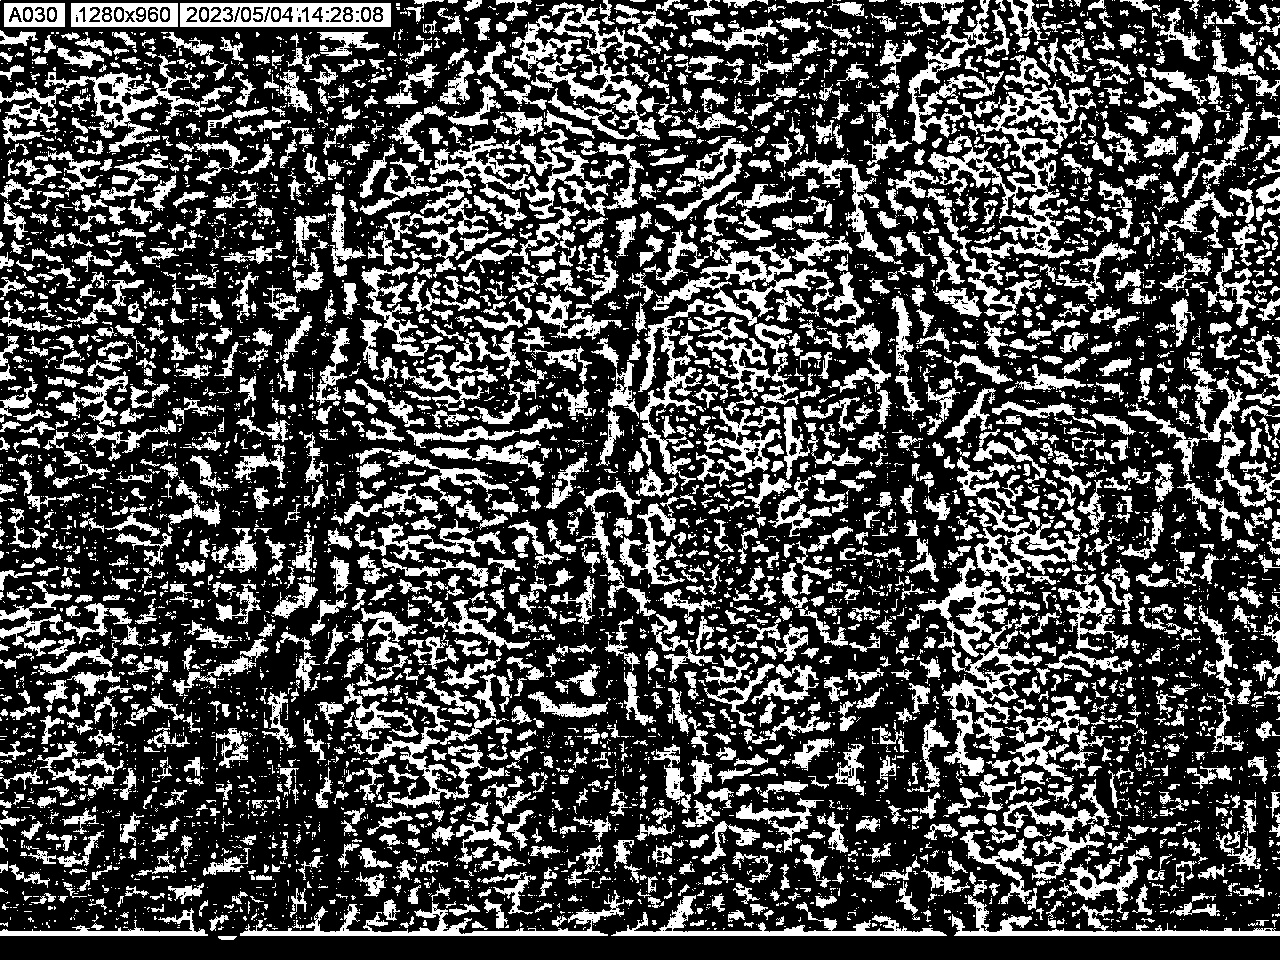
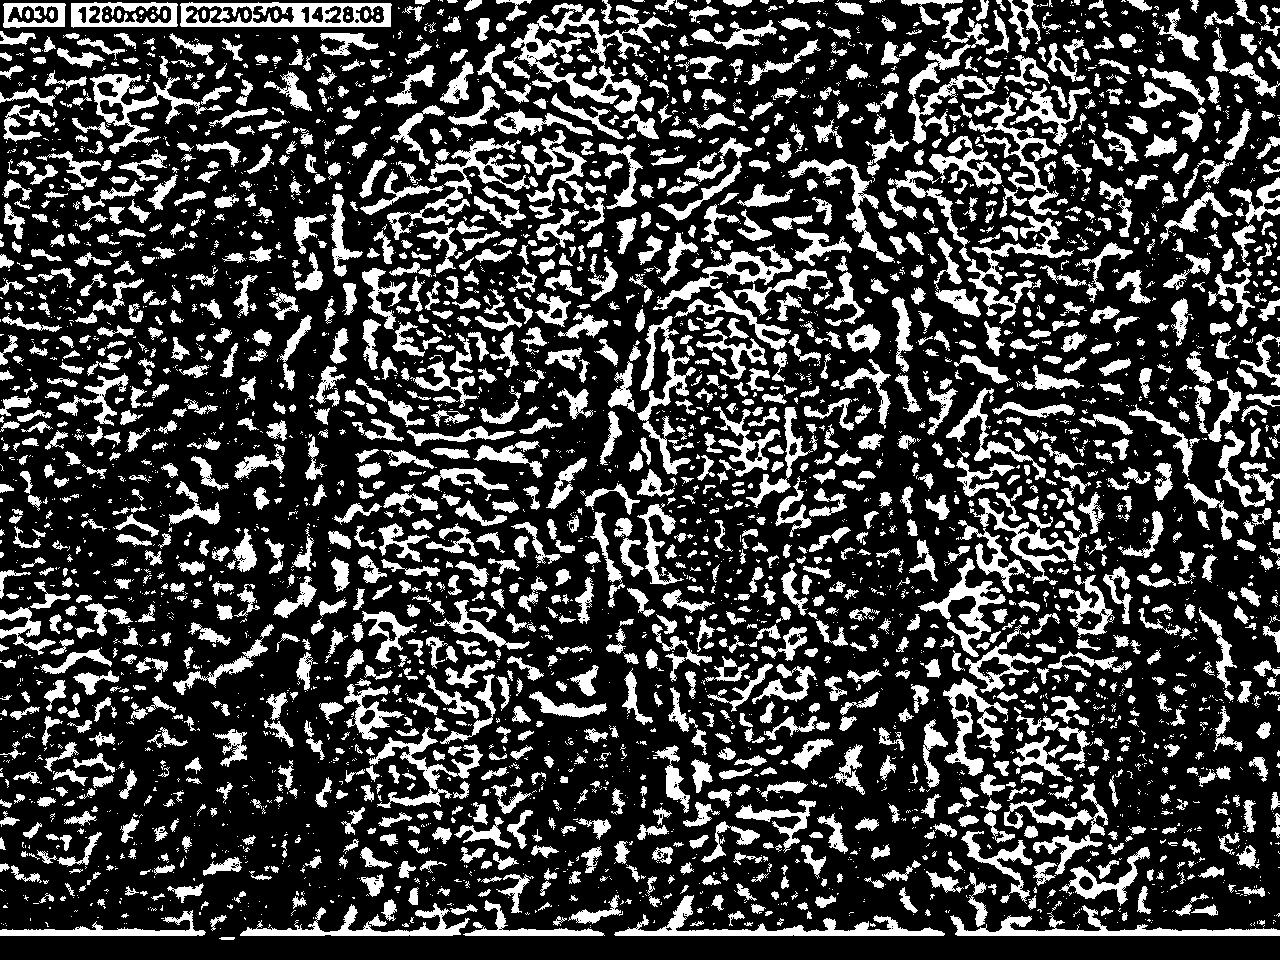
test

diff --git a/rbl/group_task02/main.py b/rbl/group_task02/main.py
@@ -39,7 +39,8 @@ def process(file_path:str):
     # process the image
     im_ori = cv.imread(file_path)
     im_gray = cv.cvtColor(im_ori, cv.COLOR_BGR2GRAY)
-    im_binary = cv.adaptiveThreshold(im_gray, 255, cv.ADAPTIVE_THRESH_MEAN_C, cv.THRESH_BINARY_INV, 11, 2)
+    im_blur = cv.GaussianBlur(im_gray, (7,7), 0)
+    im_binary = cv.adaptiveThreshold(im_blur, 255, cv.ADAPTIVE_THRESH_MEAN_C, cv.THRESH_BINARY_INV, 11, 2)
 
     # make histogram
     # build_histogram(im_gray, filename + '_gray')
@@ -55,8 +56,7 @@ def process(file_path:str):
     print( f'Percentage of 255 intensity: {percent_255_pixels}%' )
 
     # save images
-    # cv.imwrite(os.path.join(dir_path, f'img/{filename}_ori.jpg'), im_ori)
-    # cv.imwrite(os.path.join(dir_path, f'img/{filename}_gray.jpg'), im_gray)
+    # cv.imwrite(os.path.join(dir_path, f'results/{filename}_gray.jpg'), im_gray)
     cv.imwrite(os.path.join(dir_path, f'results/{filename}_binary.jpg'), im_binary)
     return percent_0_pixels, percent_255_pixels
 
@@ -87,4 +87,5 @@ if __name__ == '__main__':
                 black_percentage[1], white_percentage[1] = process(file_path)
             print()
         df = append_data_to_df(df, i, white_percentage[0], white_percentage[1])
+    df = df.set_index('Dataset')
     print(df)
